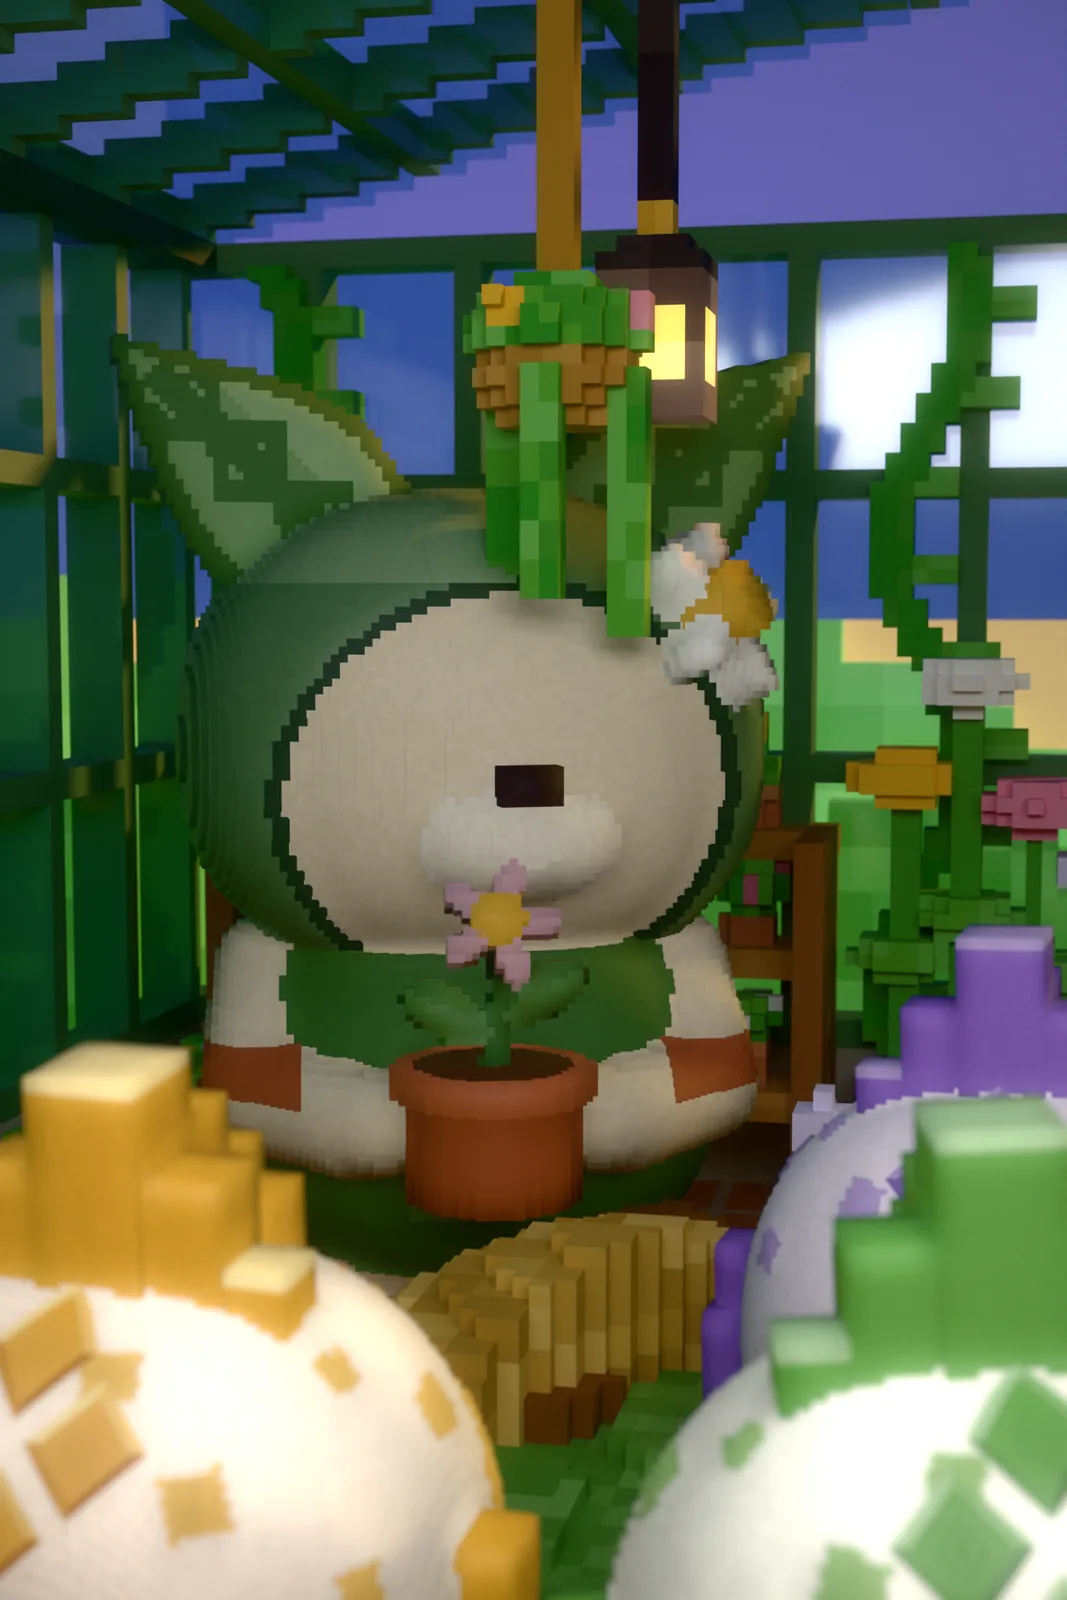
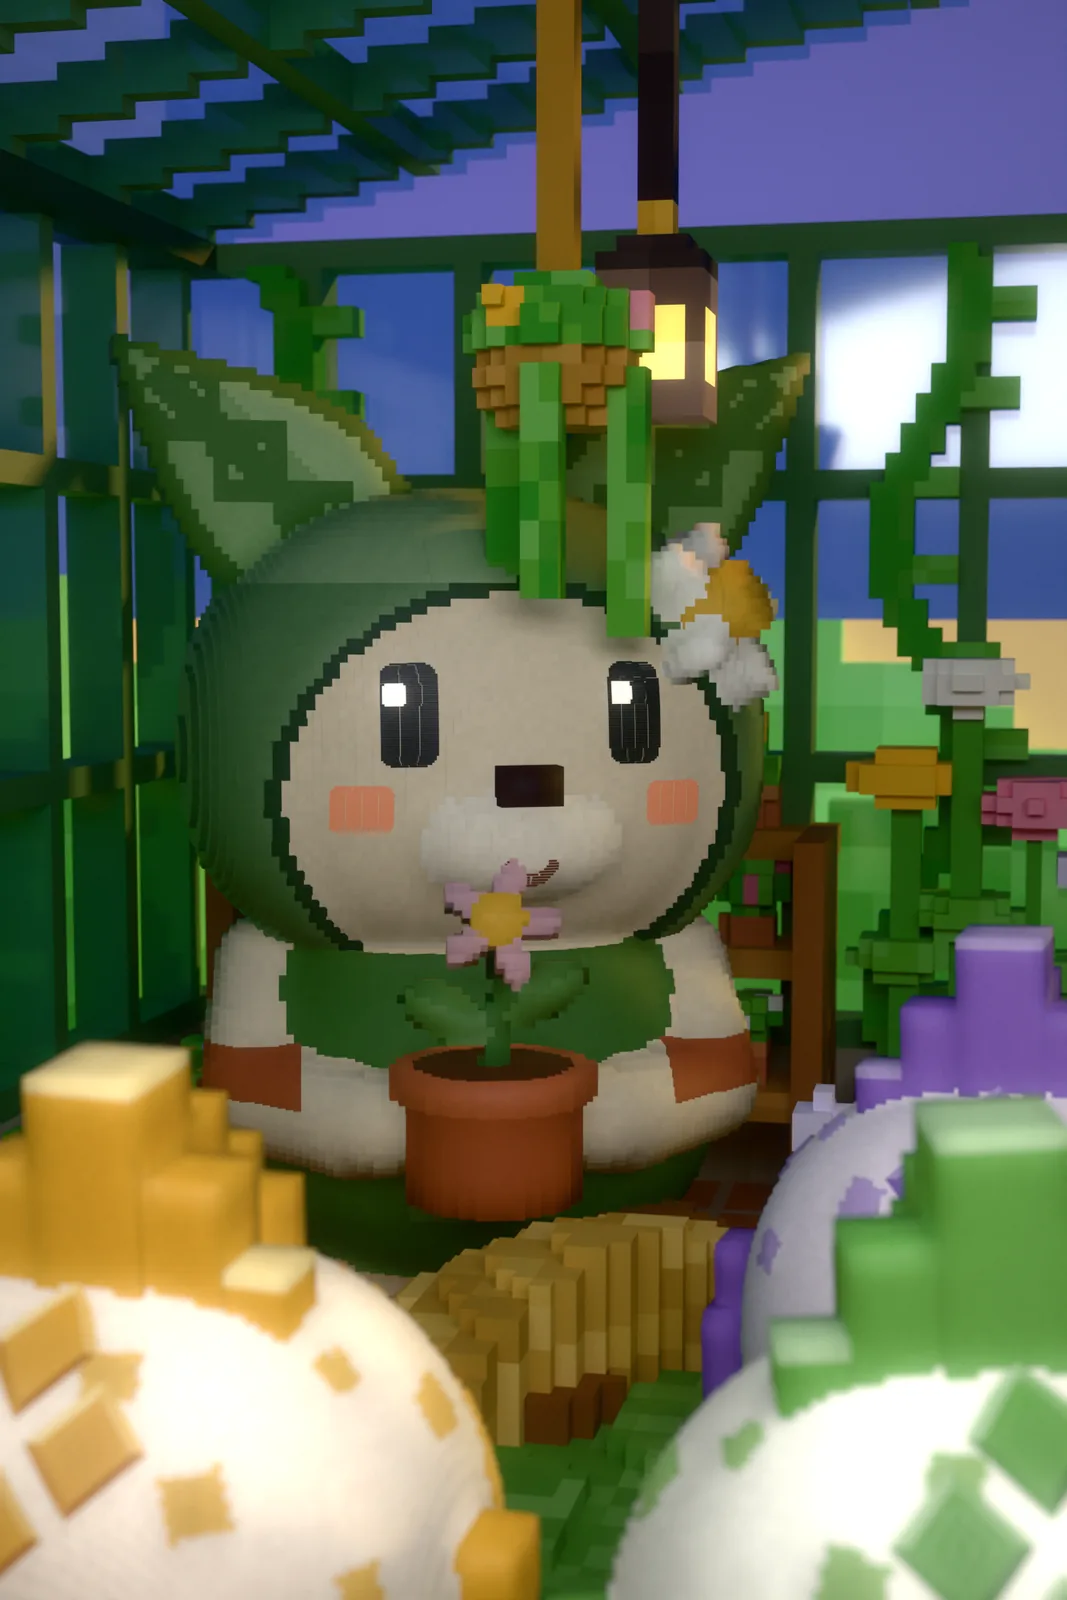
Pip and Mira acted: their lines rendered frame by frame on the GPU (15 fps: Pip 59 talking + 30 idle, Mira 57 + 18), graded against the plate and cut into clips (pip_talk/idle, mira_talk/idle); Mira with her face back; the old pose sheets retired
Claude-Session: https://claude.ai/code/session_01HANmFDddYbzo6K9KzGZmoK

Changed region(s): [[0.3093, 0.4062, 0.433, 0.5312], [0.5567, 0.4062, 0.6495, 0.5312], [0.4948, 0.5312, 0.5258, 0.5625]]

diff --git a/tools/art/cine_anim.py b/tools/art/cine_anim.py
@@ -195,7 +195,8 @@ def assemble(raw_dir, pack_dir, out_dir, scene, plate, cap):
     x0, y0, x1, y1 = an['box']
     base = np.asarray(Image.open(os.path.join(raw_dir, scene + '_raw.png')).convert('RGBA')).astype(np.float32)
     H, W = base.shape[:2]
-    zb = CB.read_depth(os.path.join(raw_dir, scene + '_z.exr'))
+    zp0 = os.path.join(raw_dir, scene + '_z.exr')
+    zb = CB.read_depth(zp0) if vs.grade.get('mist') and os.path.exists(zp0) else None   # (only the haze uses depth)
     k = min(1.0, cap / max(W, H))
     size = (round(W * k), round(H * k))
 
@@ -223,9 +224,9 @@ def assemble(raw_dir, pack_dir, out_dir, scene, plate, cap):
             fr = base.copy()
             h_, w_ = min(im.shape[0], H - y0), min(im.shape[1], W - x0)
             fr[y0:y0 + h_, x0:x0 + w_] = im[:h_, :w_]
-            z = zb.copy()
+            z = None if zb is None else zb.copy()
             zp = os.path.join(raw_dir, fname + '_z.exr')
-            if os.path.exists(zp):
+            if z is not None and os.path.exists(zp):
                 zf = CB.read_depth(zp)
                 if zf.shape == zb.shape:
                     z = zf
